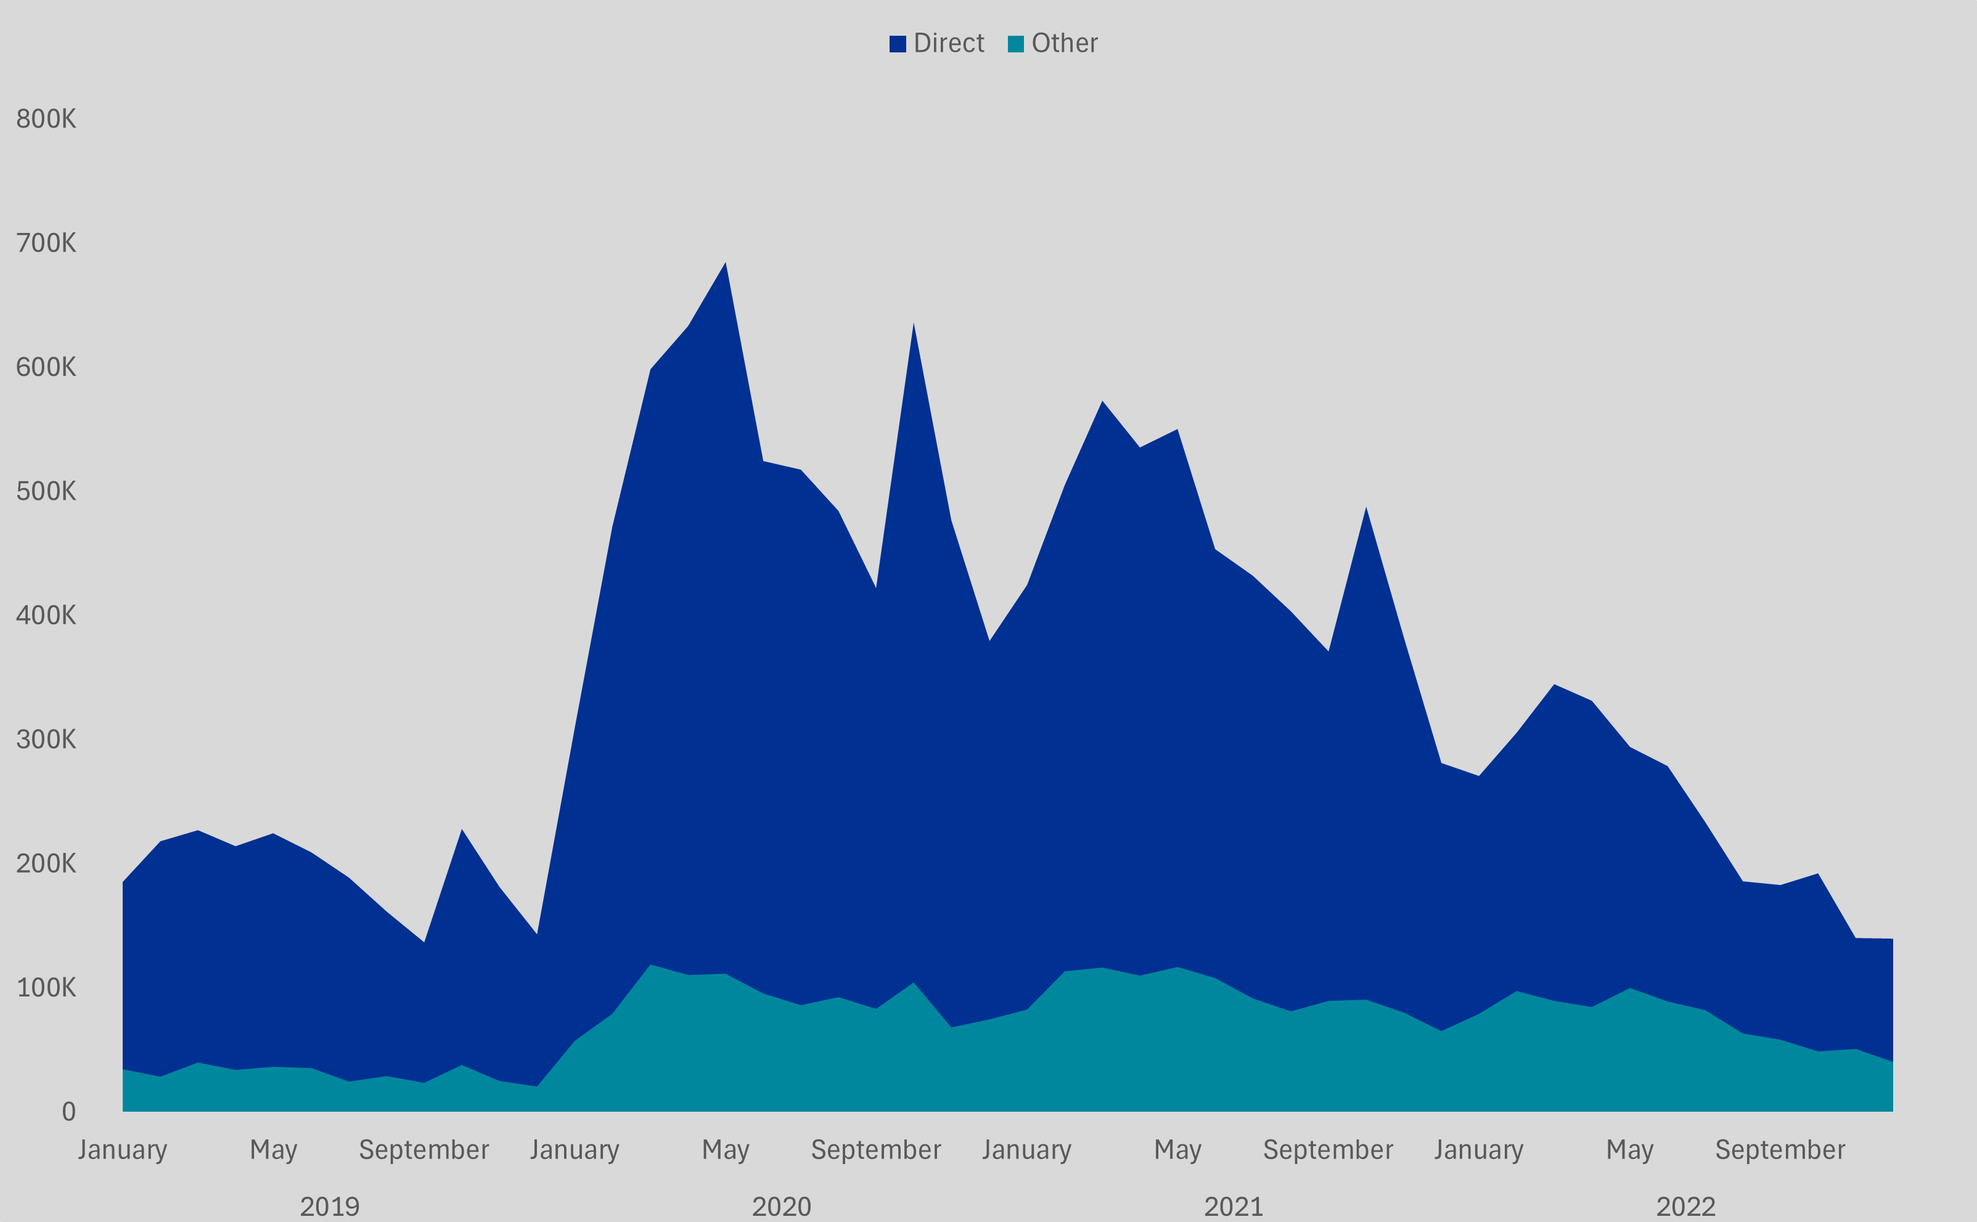
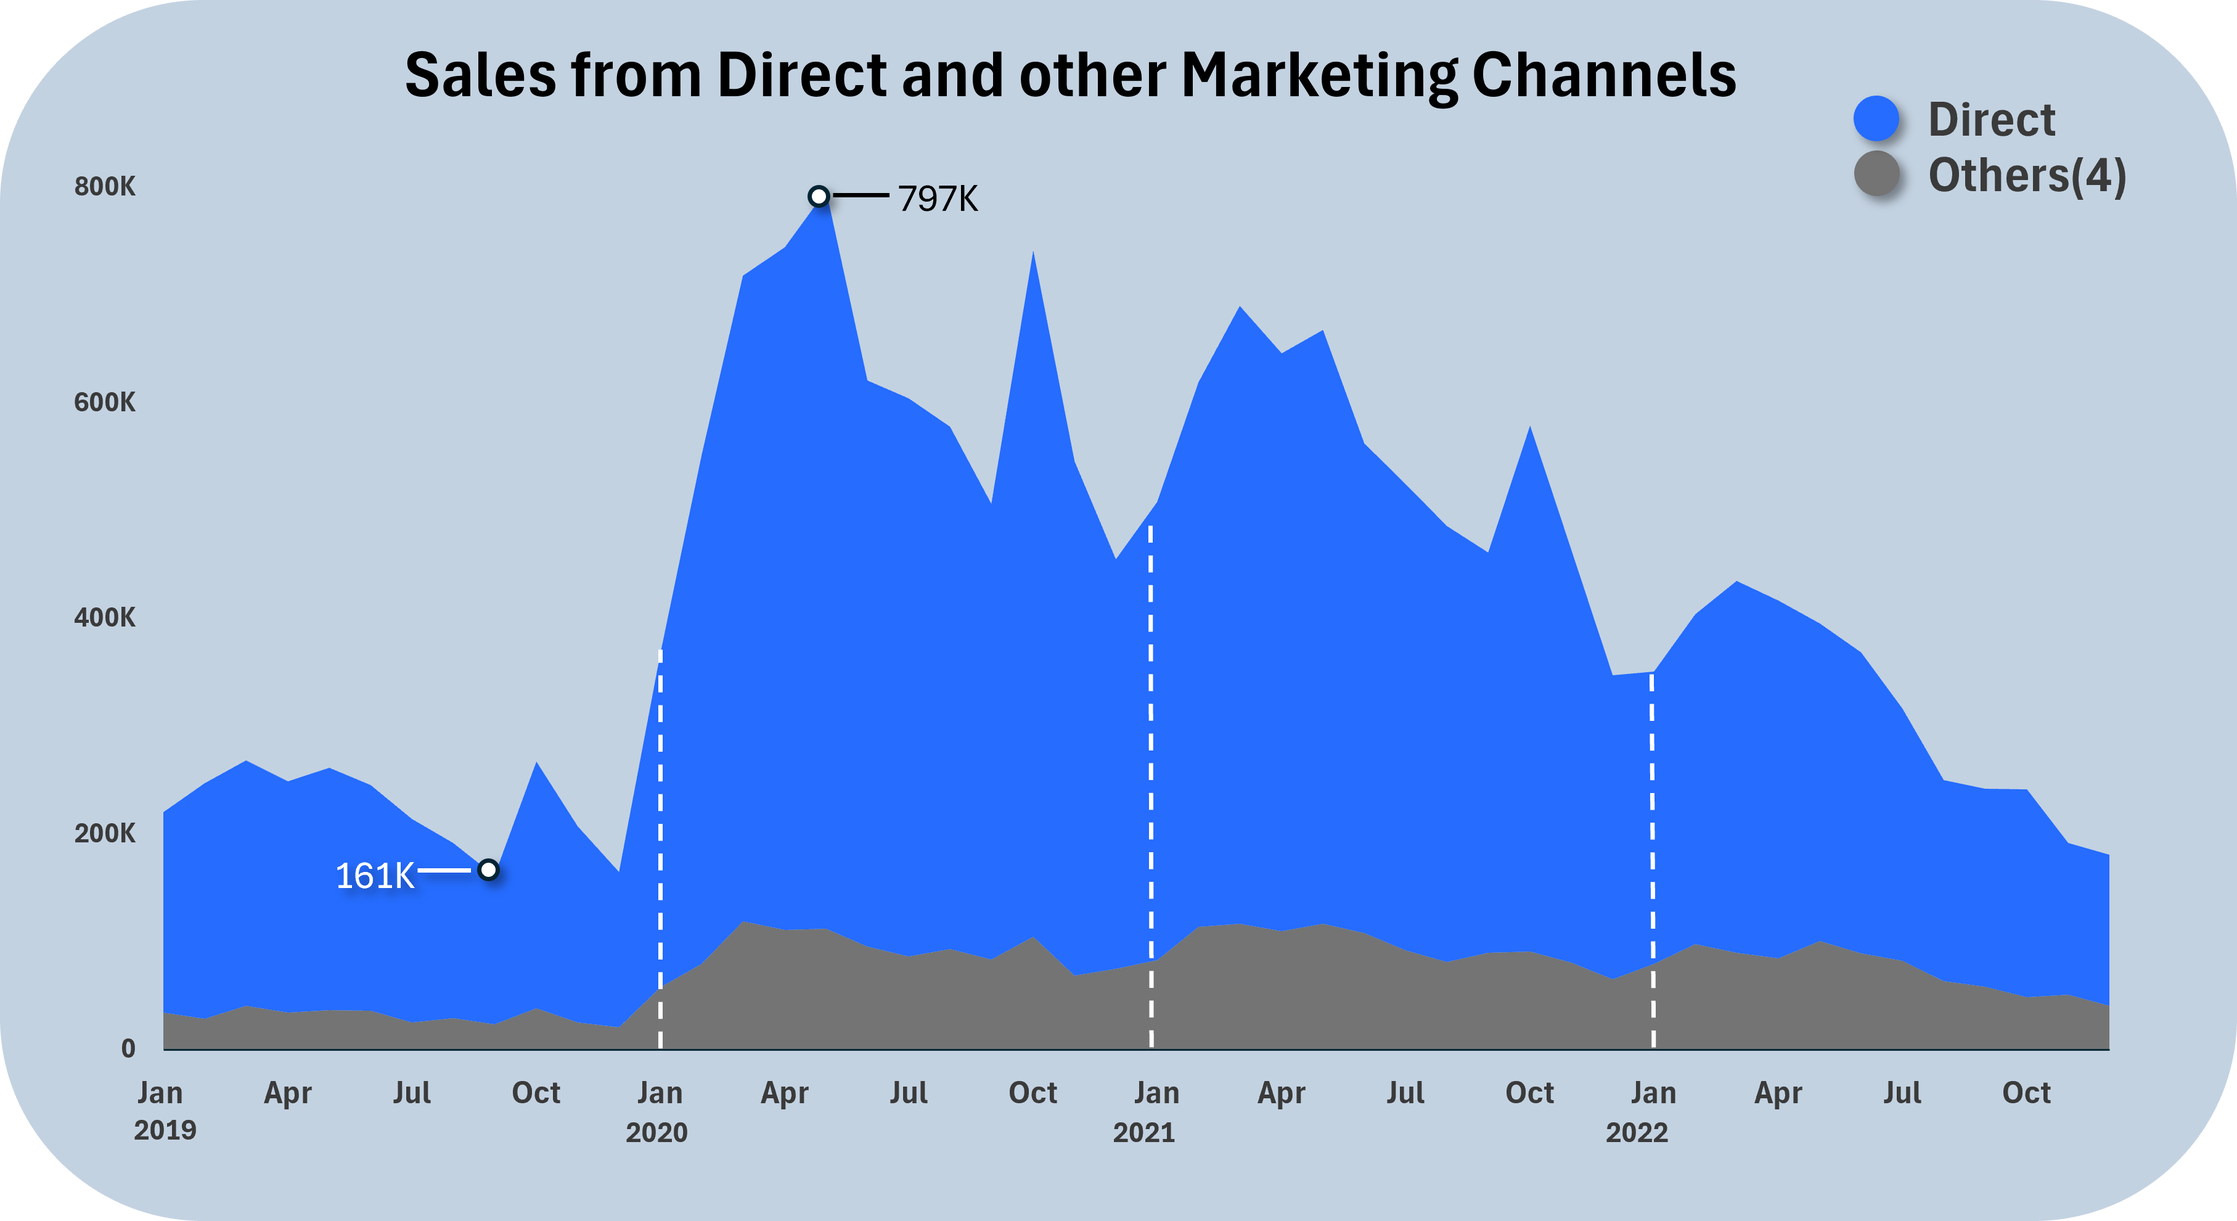
updated README

diff --git a/README.md b/README.md
@@ -3,8 +3,9 @@
 Bookmarks:  
 - [Background](#background-and-overview)
 - [Executive Summary](#Executive-Summary)
-- [Recommendations](#Recommendations)
 - [Analysis Deep Dive](#Analysis-Deep-Dive)  
+- [Recommendations](#Recommendations)
+
 
 ## Defined Terms  
 
@@ -21,113 +22,156 @@ Bookmarks:
 
 ## Background and Overview  
 
-Trenline is a global online retailer specializing in consumer electronics. Since commencing operations in 2019, the company has averaged over $5 million in annual net sales, representing a share of the \$650 billion E-commerce market.  
+Trenline is a global online retailer specializing in consumer electronics. Since commencing operations in 2019, the company has averaged over $5 million in annual net sales, partisipating in the \$650 billion E-commerce market.  
 
-Trenline’s primary marketing strategy involves direct online advertisements promoting one of eight consumer electronics products. Additionally, the company offers a loyalty program aimed at fostering customer retention.  
+Trenline’s primary marketing strategy involves **Direct Marketing**, promoting one of its eight consumer products. Additionally, the company offers a loyalty program aimed at fostering customer retention.  
 
 This report aims to:  
-- Support the Marketing Team with insights and recomendations to increase sales  
+- Support the Marketing Team with insights and recommendations to increase sales  
 - Uncover key drivers in sales channels
 - Identify emerging sales trends from 2019 to 2022 
 - Provide data-supported changes to the Member Loyalty Program
-
+---
 ## Data Structure Summary  
 <img src="readme_visuals/data_relationships.png" alt="table relationships" />
-Four tables were provided for this anlaysis shown above:
+<br><br/>
 
-- **orders:** Contians the unique order identifier (id is the primary key) and data about purchase. It includes the customer identifier (customer_id), the product purchased (product_name), purchase date (purchase_ts), and purchase value in USD (currency_usd).
+Four tables (visualized above) were provided for this analysis:  
 
-- **customers:** Contains the unique order id (id foreign key for orders) and customer information. It contains the marketing channel that achieved the initial sale (marketing_channel), the customers member status (loyalty_program), and the customer's country (country_code).
+- **orders:** Contains unique order identifiers (**id**, primary key) and purchase details, including the customer identifier (**customer_id**), product purchased (**product_name**), purchase date (**purchase_ts**), and purchase value in USD (**currency_usd**).  
 
-- **order_status:** Holds information about order returns (order_id being the foreign key for orders). Important dates are stored here such as the purchase date (purchase_ts), ship date (ship_ts), the delivery date (delivery_ts), and refund date (refund_ts). ***Note**: Only orders that were returned were added to this table*
+- **customers:** Stores customer-related data linked to orders (**id**, foreign key for orders). It includes the marketing channel that drove the initial sale (**marketing_channel**), the customer's membership status (**loyalty_program**), and their country (**country_code**).  
 
-- **geo_loopup:** A table for catagorizing countries (country as primary key) into regions including Asia and the Pacific (APAC) Europe (EURO), Latin America (LATAM), Middle East and Africa (MEA), and North America (NA).
+- **order_status:** Tracks order returns, with **order_id** as the foreign key for orders. This table records key dates such as purchase (**purchase_ts**), shipping (**ship_ts**), delivery (**delivery_ts**), and refund (**refund_ts**). ***Note**: Only returned orders are included in this table.*  
 
+- **geo_lookup:** Categorizes countries (**country**, primary key) into regions: Asia-Pacific (**APAC**), Europe (**EURO**), Latin America (**LATAM**), the Middle East & Africa (**MEA**), and North America (**NA**).  
+
+---
 ## Executive Summary  
 
 Sales have been declining since peaking in 2020 with Sales of \$7.2M, with 2021 YOY Sales dropping 9% (\$6.5M) and YOY decreasing a further 42% (\$3.8M) in 2022. The drops in sales are driven mainly by fewer sales through the Direct Marketing Channel, which has accounted for 83% of revenue historically. Seasonal sales trends suggest sales performance decreases during months of high consumer demand. Sales in November and December were 28% lower compared to the rest of the year. Decreasing YOY sales could indicate increased competition in the market, and cause worse Direct Marketing performance. Product offerings have been very static during the 4 years of opperation with 8 product types offered. 96% of sales are generated by 4 of these categories which include Macbooks, ThinkPads, Apple Headphones, and Gaming Monitors. Sales from the Member Loyalty Program are having little impact on CLV, with less than 1% of Loyalty customers making repeted purchases.
+
+---
 
 ## Sales Analysis Deep Dive
 
 ### Revenue Trends  
 Revenue peaked in 2020 at $7.2M, a YOY increase of 167% after the first year of operations in 2019 The following years expierienced YOY decreases of 9% in 2021 (\$6.5M) and 42% in 2022 (\$3.8M). Electronics sales perfrom best consistantly Febuary through May and including October while underperforming in September, November, and December. The lack of sales at the end of the year is concernign considering the last 2 months of the year being high retail-demand months during Holidays.
-
+<br>
 <img src="readme_visuals\Annual_Sales.png" alt="Sales Table" width="1200" />
-<br><br>
-
-
+<br>
+<br>
 <img src="readme_visuals\Monthly_Sales_Averages.png" alt="Sales Table" width="1200" />
+<br>
 
 ### Sales Channels
 
-The Direct Marketing channel continues to dominate sales traffic, with it making up 77% of 2022 sales. This is however less in absolute and realative value compared to the rest of the marketing channels. Direct Marketing in 2020 contributed 85% of sales and has been slowly diminishing both in absolute value and comparatively. The cause of the decline is unknown, but seasonal trends suggest worse sales performance in holiday seasons (November-December). Performance in these months are lower than the typical low demand month of January. This could be the leading driver on lowering ROAS, caused by increased advertising competition. 
+The Direct Marketing channel remains the primary driver of sales, accounting for 77% of total sales in 2022. However, its share has been steadily declining both in absolute and relative terms compared to other channels. In 2020, Direct Marketing contributed 85% of total sales, but this figure has gradually decreased over time. The reason for this decline is unclear, though seasonal trends indicate weaker performance during high-demand months, particularly November and December. Sales in these months are even lower than in January, traditionally a low-demand period. This seasonal weakness may be contributing to a declining return on ad spend (ROAS), likely due to increased competition for advertising space
 
-
-<img src="readme_visuals\Monthly_Sales_from_Direct_and_Other_Channels.png" alt="Sales Table" width="1200" />
-
-
-The next-best perfoming Marketing Channel is E-Mail which has gained realative size of 15% of total sales in 2022 from 10% in 2020. Sales from this channel however are still decreasing in absolute value. While it makes sence that as more customers are added to the E-Mail listing it would be more prelevant, the absolute value of orders through the channel decreasing is still a concern. 
+<br><br>
+<img src="readme_visuals\Direct_vs_Other_Marketing.PNG" alt="Sales Table" width="1200" />
+<br>
+The next-best performing marketing channel is E-Mail, which grew from 10% of total sales in 2020 to 15% in 2022. However, despite its increasing share, sales from this channel are still declining in absolute terms. While a growing customer base should, in theory, enhance the impact of E-Mail marketing, the overall drop in orders from this channel raises concerns about its effectiveness.
+<br>
 <img src="readme_visuals\Marketing_Channel_Contribution.png" alt="Sales Table" width="1200" />
 
-Sales from Affiliates, and Social Media are very neglegable, attributing 5% of sales in 2022. While these channels may not directly lead to many product sales, they provide the oppertunity to showcase offers and gain brand exposure. Social media could be utalized to showcase LMP offers to encourage customers to signup which will allow promotion of E-Mail Marketing offers. Affiliates could be granted direct bonuses for program signups, increasing reach.
 
+
+Sales from Affiliates and Social Media remain minimal, contributing only 5% of total sales in 2022. While these channels do not directly drive substantial revenue, they serve as valuable tools for brand exposure and promotional opportunities. Social Media could be leveraged to highlight Loyalty Membership Program (LMP) offers, encouraging sign-ups that would, in turn, support E-Mail marketing campaigns. Additionally, Affiliates could be incentivized with direct bonuses for LMP sign-ups, helping expand reach and engagement.
+
+
+<br><br>
 ### Geography Analysis 
-
-Sales have been distributed very evenly across regions with North America (NA) Being the largest market with over 50% of sales. Followed by Europe (20%), Asia and Pacific (12%), Middle East and Africa (10%), and Latin America (6%). Product sales have also been very consistant across regions with little variation besides ThinkPad and Macbook laptops selling slightly less in MEA compared to other products. Further research is needed to investigate product demand across regions. 
+Sales have been evenly distributed across regions, with North America (NA) being the largest market, accounting for over 50% of total sales. Europe follows with 20%, while Asia and the Pacific (APAC) contribute 12%, the Middle East and Africa (MEA) 10%, and Latin America (LATAM) 6%. Product sales have remained relatively consistent across regions, with minimal variation, except for ThinkPad and MacBook laptops, which sell slightly less in MEA compared to other products. More market data is required to assess product demand variations across regions.
 
 <img src="readme_visuals\Monthly_Revenue_by_Region.png" alt="Sales Table" width="1200" />
 
-<br><br>
+<br>
 
-Marketing channel performance varies little across regions as well, with the exception beign Europe favoring Direct over E-Mail Channels realative to  other regions.
+Marketing channel performance also shows little variation across regions, with one notable exception—Europe relies more heavily on the Direct Marketing channel compared to E-Mail marketing relative to other regions.
 
-<br><br>
+<br>
 
 <img src="readme_visuals\Marketing_Composition_by_Region.png" alt="Sales Table" width="1200" />
 
 <br><br>
 
 ### Customer Memberships  
-The LMP has not demonstrated a significant impact on CLV. LMP customers CLV is 24% lower than non-members. Less than 1% of LMP customers make repeat purchases compared to 9% of non-members. This demonstrates a lack of insentive from the LMP to give valueable offers to customers. It needs to be structured to increase customer CLV by delivering specialized and realavant product offers to customers.
-
-<img src="readme_visuals/Average_CLV.PNG" alt="Sales Table" width="1200" />
-
-### Product Offerings  
-
-6 Products were initially sold beginning in 2019 including Gaming Monittor, Apple Airpods, ThinkPad and Macbook Laptops, IPhone, and Samsung Cable. Bose Headphones and Samsung Webcam began sales in 2020.
-
+The LMP has not demonstrated a significant impact on CLV. LMP customers CLV is 24% lower than non-members. Less than 1% of LMP customers make repeat purchases compared to 9% of non-members. This demonstrates a lack of insentive from the LMP to give valueable offers to customers. While average CLV is trending upwards YOY, the lack of repeat purchases is very small even when comparing to non-members. Less than 50 members made repeat purchases in over four years compared to over a thousand non-members. The missing repeated purchases of members indicate a marketing issue. The value generated by the membership program should be directed at presenting specialized offers to members which increase repeated purchases, and increase CLV. 
+<br>
+<img src="readme_visuals/Average_CLV.png" alt="Sales Table" width="1200" />
 <br><br>
+### Product Performance 
+
+Six products were initially launched in 2019: Gaming Monitors, Apple AirPods, ThinkPad and MacBook laptops, iPhones, and Samsung Charging Cables. Bose Headphones and Samsung Webcams were added in 2020.
+<br>
 
 <img src="readme_visuals/Product_Sales_Table.PNG" alt="Sales Table" width="1200" />
-
 <br><br>
 
-Four products account for over 96% of total revenue. Two lead sales drivers are Gaming Monitors and Apple Airpods making 63% of revenue. Following are Macbook and ThinkPad laptops contribute 33% while only makinng up 7% of order count. The Samsung Charging Cable has performed well in order count at 21%, but only contributes 2% of revenue. Considering the order value of products should influence the marketing channel which it is presented. If realative costs of Direct Marketing increase, advertisements should be more focused to products that are higher in value when converted. Advertising the highest value products which have a history of success in the Direct channel such as laptops and monitors makes sence. Other products could be offered as deals in the LMP.
+Four products account for over 96% of total revenue. The top sales drivers are Gaming Monitors and Apple AirPods, contributing 63% of revenue. MacBook and ThinkPad laptops follow, generating 33% of revenue despite comprising only 7% of total order volume. The Samsung Charging Cable, while performing well in order count at 21%, contributes just 2% of total revenue.
 
-<br><br>
+Given the varying order values of these products, marketing strategies should be adapted accordingly. If the relative cost of Direct Marketing increases, ad placements should prioritize higher-value products with proven conversion success, such as laptops and monitors. Lower-value products could be positioned as promotional deals within the LMP to enhance customer retention and cross-selling opportunities.
+
+<br>
 
 <img src="readme_visuals/Product_Depth_Data.PNG" alt="Sales Table" width="1200" />
 
-<br><br>
+<br>
 
 ---  
 ## Recommendations  
 
-1. **Focus Direct Marketing on Top Performers**  
-   - Limit direct marketing efforts to the top four performing products with high order value (Gaming Monitor, Apple headphones, MacBook, and ThinkPad laptops)
+1. **Optimize Direct Marketing for High-Value Products**
 
-2. **Leverage Membership for E-Mail Marketing**  
-   - Utilize LMP to target members with personalized email campaigns focusing on:  
+   - Mitigate the impact of declining Direct Marketing performance by focusing efforts on the top four high-order-value products: Gaming Monitors, Apple Headphones, MacBooks, and ThinkPad laptops.
+
+2. **Enhance the Loyalty Memberhsip Program (LMP)**  
+   - Increase CLV by restructuring LMP to incentivize repeat purchases and customer engagement:   
+     - Implement tiered rewards to encourage higher spending and repeat purchases  
+     - Personalize offers based on purchase history to improve engagement and retention
+     - Introduce referral incentives, such as coupon discounts, to encourage existing customers to refer new LMP sign-ups
+
+3. **Leverage Membership for E-Mail Marketing**  
+   - Increase CLV by Utilizing LMP to target members with personalized email campaigns focusing on:  
      - Similar products to previous purchases
      - Complementary products(ie Apple headphones for previous iPhone customers)
      - Exclusive discounts or product bundles to drive additional purchases and increase retention
-     - New products to aquire feedback on potential future product offerings
+     - New product launches to gather feedback on potential future offerings
+   - Strengthen engagement by incorporating dynamic content, such as limited-time offers and interactive promotions, to boost conversion rates.
 
-3. **Expand Product Offerings**  
-   - Research mid-to-high priced, high-demand electronics products that may perform well such as TVs, Android smartphones, and Apple Watches 
-   - Provide LMP customers with exclusive early access to new product products 
 
-4. **Enhance the LMP**  
-   - Redesign the program to encourage sign-ups and increase CLV:  
-     - Introduce tiered rewards to incentivize repeat purchases  
-     - Create tailored offers based on purchase history to increase engagement
+4. **Address Seasonal Sales Weakness**
+   - Counteract sales declines in November and December by launching targeted holiday promotions focused on high-performing products.
+
+   - Implement strategic discounting and bundling for seasonal campaigns to drive conversions during high-demand periods.
+
+5. **Expand Product Offerings**  
+   - Reduce potentialnegative impact from static offerings by researching mid-to-high priced, high-demand electronics products that may perform well such as TVs, Android smartphones, and Apple Watches.
+   - Enhance LMP value by providing members with exclusive early access to new product launches and limited-edition items.
+
+6. **Diversify and Strengthen Low-Performing Marketing Channels**
+
+   - Expand Social Media and Affiliate engagement strategies to increase brand visibility and improve conversions:
+
+      - Launch targeted ad campaigns showcasing best-selling products and LMP benefits
+      - Offer exclusive social media promotions to incentivize purchases and increase engagement
+      - Provide affiliates with additional incentives for driving LMP sign-ups alongside product sales.
+
+# Data Caveats & Limitations
+
+1. **Marketing Budget Data is Not Available**
+
+   - The dataset does not include marketing spend across channels (Direct, Email, Affiliate, and Social Media Marketing).
+
+   - As a result, ROAS (Return on Ad Spend) and cost efficiency by channel cannot be directly calculated. Instead, marketing effectiveness was evaluated using sales contribution and revenue trends.
+
+2. **Customer Engagement Data is Limited**
+
+   - The analysis focuses on purchase data but does not include site visits, ad impressions, or email engagement metrics, which could provide deeper insights into marketing performance.
+
+3. **Competitive & Market-Wide Factors Not Considered** 
+
+   - External influences such as competitor pricing, industry trends, and macroeconomic conditions (Corona Virus) are not included or considered in this dataset.
+
+   - This means that while declining sales and seasonal trends are observed, their underlying causes may extend beyond Trenline’s internal strategies.
